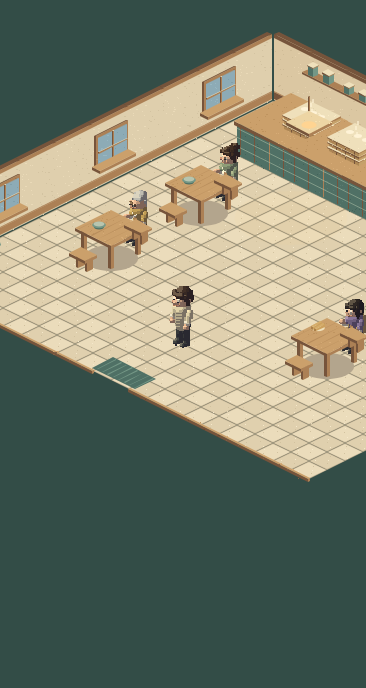
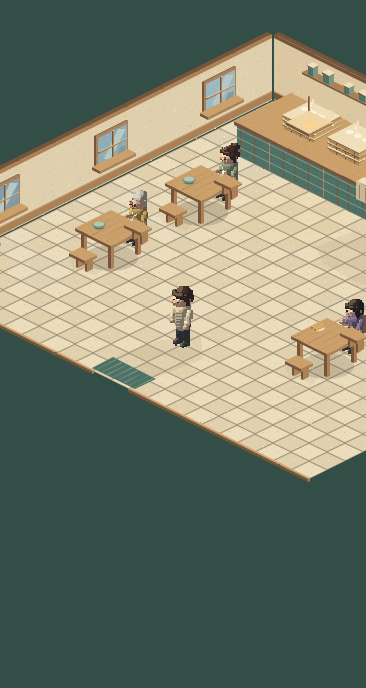
feat(restaurant): add purposeful working-room detail and wear

diff --git a/src/world/art/restaurant/index.ts b/src/world/art/restaurant/index.ts
@@ -19,6 +19,20 @@ export function drawMap(ctx: CanvasRenderingContext2D, map: RestaurantMap, v: Re
       ctx.fillStyle=v.shadeColor?.(color) ?? color; ctx.fillRect(Math.round(s.x),Math.round(s.y),1,1);
     }
   }
+  ctx.save();ctx.globalAlpha*=.18;
+  for(const prop of map.props.filter(prop=>prop.kind==='table')) {
+    const {x,y}=prop.position;
+    polygon(ctx,v,[[x-.24,y-.56,.012],[x+.7,y-.9,.012],[x+1.25,y-.55,.012],[x+1.1,y+.15,.012],[x+.22,y+.2,.012]],'#a99575');
+    polygon(ctx,v,[[x+.3,y+2.1,.012],[x+1.6,y+2.03,.012],[x+1.85,y+2.65,.012],[x+.75,y+2.85,.012],[x+.12,y+2.5,.012]],'#b8a584');
+  }
+  polygon(ctx,v,[[10.8,19.8,.012],[11.2,17.4,.012],[12.1,16.1,.012],[13.4,17.3,.012],[13.1,19.8,.012]],'#b29b77');
+  polygon(ctx,v,[[10.3,7.9,.012],[10.5,6,.012],[14.1,5.8,.012],[14.8,7.1,.012],[13.7,8.8,.012],[11.4,8.6,.012]],'#b8a17b');
+  ctx.restore();
+  for(const y of [3,9,15]) {
+    ctx.save();ctx.globalAlpha*=.1;
+    polygon(ctx,v,[[1.2,y+.2,.015],[1.2,y+1.65,.015],[4.5,y+3.2,.015],[5.2,y+1.8,.015]],'#e5e6d5');
+    ctx.restore();
+  }
   for(const x of [8,16]) {
     ctx.save();ctx.globalAlpha*=.07;
     oval(ctx,{...v,shadeColor:undefined},x,7,.012,2.8,'#ffd492');
@@ -31,7 +45,8 @@ export function drawMap(ctx: CanvasRenderingContext2D, map: RestaurantMap, v: Re
 }
 
 function table(ctx: CanvasRenderingContext2D, v: RestaurantView, x: number, y: number, w: number, d: number) {
-  oval(ctx,v,x+w/2+.25,y+d/2+.25,.01,1.35,'#b3a58d');
+  ctx.save();ctx.globalAlpha*=.18;
+  oval(ctx,v,x+w/2+.25,y+d/2+.25,.01,1.35,p.ink);ctx.restore();
   for(const dx of [.18,w-.32]) for(const dy of [.18,d-.32]) box(ctx,v,x+dx,y+dy,0,.14,.14,1.32,p.woodDark);
   box(ctx,v,x,y,1.27,w,d,.17,p.woodLight,p.woodDark,p.wood);
   for(let n=.15;n<w;n+=.36) box(ctx,v,x+n,y+.04,1.443,.015,d-.08,.003,'#b88d5c');
@@ -51,8 +66,8 @@ function counter(ctx: CanvasRenderingContext2D, v: RestaurantView, x: number, y:
 
 function kitchenObjects(prop: RestaurantMap['props'][number]): RestaurantObject[] {
   const {x,y}=prop.position,w=prop.width;
-  const fixtures: {id:string;x:number;draw:RestaurantObject['draw']}[] = [];
-  for(const a of [1.7,4.2]) fixtures.push({id:`steamer.${a}`,x:x+a+.8,draw(ctx,v) {
+  const fixtures: {id:string;x:number;extent?:number;draw:RestaurantObject['draw']}[] = [];
+  for(const a of [1.7,4.2]) fixtures.push({id:`steamer.${a}`,x:x+a+.8,extent:1,draw(ctx,v) {
     for(let k=0;k<3;k++) {
       box(ctx,v,x+a,y+.65,1.87+k*.26,1.65,1.45,.23,'#dec28d','#ad8755','#c5a16a');
       box(ctx,v,x+a-.04,y+.61,2.06+k*.26,1.73,1.53,.06,p.cream);
@@ -65,8 +80,21 @@ function kitchenObjects(prop: RestaurantMap['props'][number]): RestaurantObject[
       ctx.fillStyle='#fff3d799';ctx.fillRect(Math.round(at.x),Math.round(at.y),2,4);
     }
   }});
-  for(const a of [8.5,10,11.5]) fixtures.push({id:`bowl.${a}`,x:x+a,draw(ctx,v){bowl(ctx,v,x+a,y+1.5,1.93);}});
-  fixtures.push({id:'youtiao',x:x+w-3,draw(ctx,v) {
+  for(const a of [8.4,8.95,10.2]) fixtures.push({id:`bowl.${a}`,x:x+a,draw(ctx,v){
+    const row=a===8.95?.85:1.5;
+    if(a===8.4) for(let k=0;k<3;k++) bowl(ctx,v,x+a,y+row,1.93+k*.12,false);
+    else bowl(ctx,v,x+a,y+row,1.93);
+  }});
+  fixtures.push({id:'utensils',x:x+12.1,draw(ctx,v) {
+    box(ctx,v,x+11.95,y+.95,1.87,.38,.38,.52,p.jade,p.jadeDark,p.jade);
+    for(let k=0;k<5;k++) box(ctx,v,x+12+k*.055,y+1.02+k%2*.08,2.35,.025,.025,.45+k%2*.14,p.woodDark);
+  }});
+  fixtures.push({id:'plate-stack',x:x+15.5,draw(ctx,v) {
+    for(let k=0;k<4;k++) oval(ctx,v,x+15.5,y+2.35,1.9+k*.07,.37,k%2?p.cream:'#c6b79b');
+    box(ctx,v,x+16.4,y+.5,1.87,.23,.23,.62,'#af965e','#796344','#927c51');
+    box(ctx,v,x+16.44,y+.54,2.49,.15,.15,.13,p.woodDark);
+  }});
+  fixtures.push({id:'youtiao',x:x+w-3,extent:1.4,draw(ctx,v) {
     box(ctx,v,x+w-4.4,y+.8,1.87,2.6,1.45,.12,p.woodDark);
     for(let k=0;k<5;k++) box(ctx,v,x+w-4.15+k*.43,y+1,2,.24,1.05,.19,p.brass,'#b68b4a','#c99c54');
   }});
@@ -74,6 +102,11 @@ function kitchenObjects(prop: RestaurantMap['props'][number]): RestaurantObject[
     box(ctx,v,x+6.1,y+.6,1.87,1.1,1.2,.1,p.cream);
     for(let i=0;i<5;i++) box(ctx,v,x+6.2+i*.15,y+.65,1.976,.04,1.08,.008,'#bbab8d');
     oval(ctx,v,x+6.65,y+1.1,2.05,.36,p.white);
+    box(ctx,v,x+5.95,y+.52,2.08,1.3,.12,.11,p.woodLight);
+    box(ctx,v,x+7.25,y+.545,2.1,.27,.07,.06,p.woodDark);
+    box(ctx,v,x+6.7,y+2.65,1.885,.7,.4,.045,p.cream);
+    box(ctx,v,x+6.7,y+3.045,.95,.7,.025,.96,'#e3d4b1','#c5b799','#e3d4b1');
+    for(const dx of [.14,.48]) box(ctx,v,x+6.7+dx,y+3.075,1.02,.045,.015,.82,'#b3b69a');
   }});
   fixtures.push({id:'ledger',x:x+13.75,draw(ctx,v) {
     box(ctx,v,x+13.2,y+.4,1.88,1.15,.8,.06,p.cream);
@@ -85,8 +118,14 @@ function kitchenObjects(prop: RestaurantMap['props'][number]): RestaurantObject[
     box(ctx,v,x+10.7,y+.35,1.88,.9,.7,.48,'#9caaa0','#5a706b','#7e928a');
     oval(ctx,v,x+11.15,y+.7,2.4,.4,'#b2beb0');
     box(ctx,v,x+11.11,y+.65,2.4,.09,.09,.12,p.woodDark);
+    box(ctx,v,x+10.67,y+.72,2.13,.8,.05,.045,p.woodDark);
+    oval(ctx,v,x+10.65,y+.75,2.16,.12,p.cream);
   }});
-  return fixtures.map(f=>({id:`restaurant.kitchen.${f.id}`,position:{x:f.x,y:y+prop.height},draw:f.draw}));
+  return fixtures.map(f=>{
+    const section=Math.min(Math.ceil(w/3)-1,Math.floor((f.x+(f.extent??.5)-x)/3));
+    const support=x+section*3+Math.min(3,w-section*3)/2;
+    return {id:`restaurant.kitchen.${f.id}`,position:{x:f.x,y:y+prop.height},depth:support+y+prop.height+.02,draw:f.draw};
+  });
 }
 
 export function renderObjects(map: RestaurantMap, _view: RestaurantView): RestaurantObject[] {
@@ -148,7 +187,10 @@ export function renderObjects(map: RestaurantMap, _view: RestaurantView): Restau
       box(ctx,v,.94,y,.1,.025,2,.4,p.wood);
       if([3,9,15].includes(y)) {
         box(ctx,v,.96,y+.1,1.2,.08,1.8,1.8,p.woodDark);
-        box(ctx,v,1.05,y+.22,1.33,.035,1.56,1.52,p.cool,'#8dabb6','#8dabb6');
+        const sky=y===3?'#9bb9c0':y===9?'#90acb5':'#819fab';
+        box(ctx,v,1.05,y+.22,1.33,.035,1.56,1.52,sky,sky,sky);
+        polygon(ctx,v,[[1.09,y+.23,2.6],[1.09,y+.7,2.85],[1.09,y+1.5,1.55],[1.09,y+1.13,1.34]],'#b6c8c6');
+        polygon(ctx,v,[[1.095,y+.3,1.4],[1.095,y+.75,1.4],[1.095,y+.6,1.8],[1.095,y+.28,1.73]],'#83999d');
         box(ctx,v,1.09,y+.95,1.3,.04,.07,1.6,p.cream);
         box(ctx,v,1.09,y+.2,2.04,.04,1.6,.07,p.cream);
         box(ctx,v,.96,y,1.17,.44,2,.14,p.woodLight);

diff --git a/docs/evidence/0089/ledger.md b/docs/evidence/0089/ledger.md
@@ -75,3 +75,13 @@ Draft PR is https://github.com/CallumHemsley/junyan/pull/35 against the coordina
 Restored seven distinct served-food drawings, including a tall soy-milk cup and straw, dumplings with folds, a pleated bun, sliced bread, egg, youtiao and porridge. Empty waiting bowls now belong to the state-derived table setting and disappear when the delivered meal replaces them, as in the legacy scene. Food is drawn after its table using explicit support depth.
 
 `node docs/evidence/0089/check-food.mjs` captured the same table with each real projected food kind and asserted seven distinct browser raster hashes. Inspected bun, milk and dumpling crop captures at actual production scale. Refreshed desktop, phone, kitchen and reduced-motion captures. TypeScript build passed again. This verifies distinct art output; shared renderer motion and integrated service acceptance remain pending.
+
+## Purposeful working-room polish
+
+Coordinator reviewed desktop.png and requested less sterile working detail. Added irregular wear at the threshold, service approach and stool feet. Contact shadows now preserve floor texture. Windows have different cool panes and angled daylight reflections, with faint corresponding floor light. Countertop groups now include stacked and staggered bowls, a utensil cup, rolling pin, folded and hanging striped cloth, ladle, plate stack and oil bottle. All remain original noncolliding drawings inside the existing geometry.
+
+Inspection caught neighboring cabinet segments covering raised fixtures. Each kitchen fixture now sorts just beyond the last cabinet support its footprint spans. It retains its own stable ID and actual position. No map, collision or actor scale changed. Non-emissive paints call shared shadeColor once; explicit glows keep raw colors and inherited alpha.
+
+After cloud recovery local HEAD was confirmed as 3acb275 matching GitHub. No unpublished source remained. Prior Vite process died with the connection. New strict-port preview process is exec session 19754 on port 5493.
+
+`node docs/evidence/0089/capture.mjs` refreshed four actual-scale captures, checked no page errors and compared supplied-time steam. Normal time 0 and 1200ms differ. Reduced-motion frames at those times are byte-identical. This checks art behavior from the host clock only, not production player motion. TypeScript and both projection tests pass. Independent production review remains pending.
